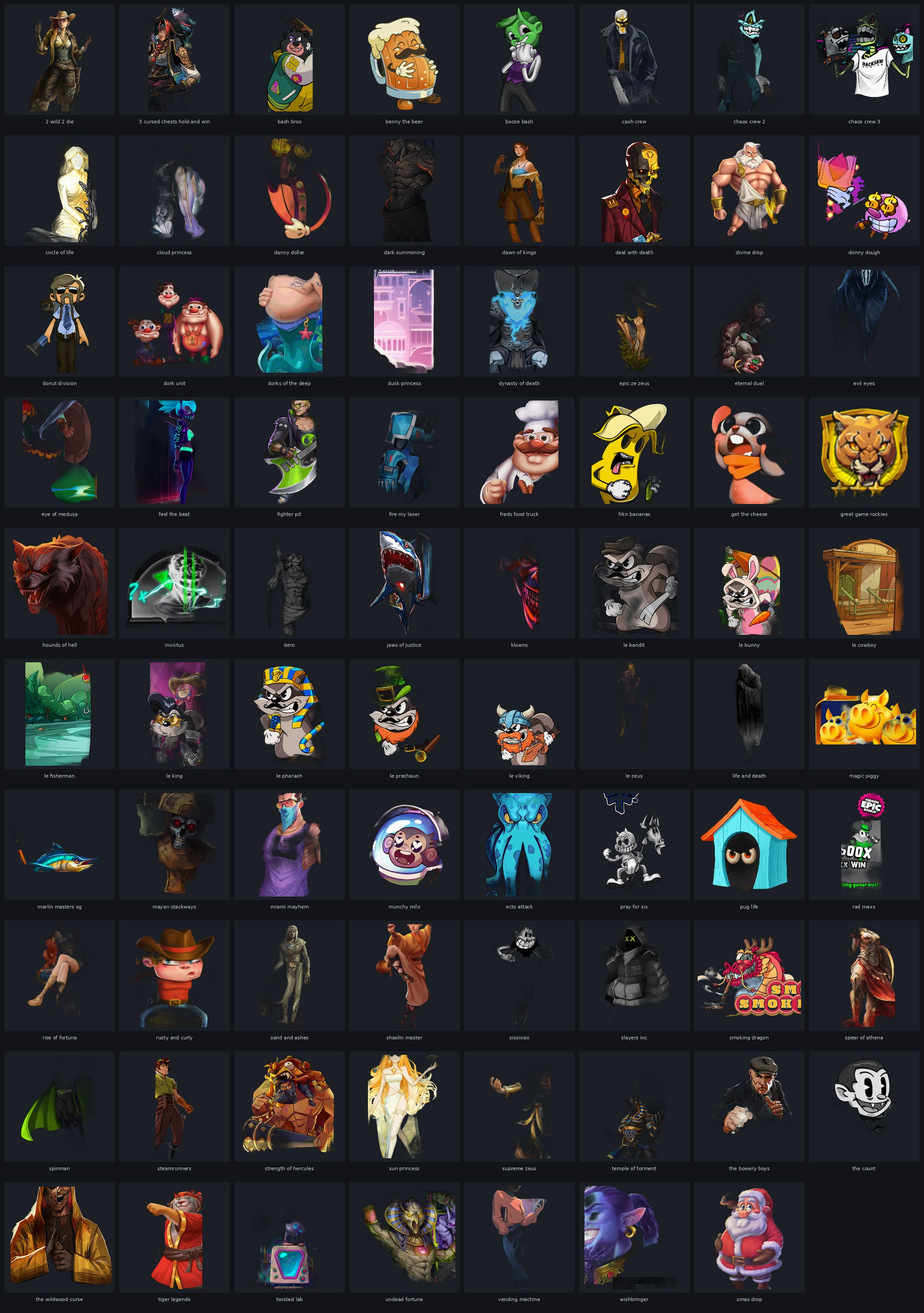
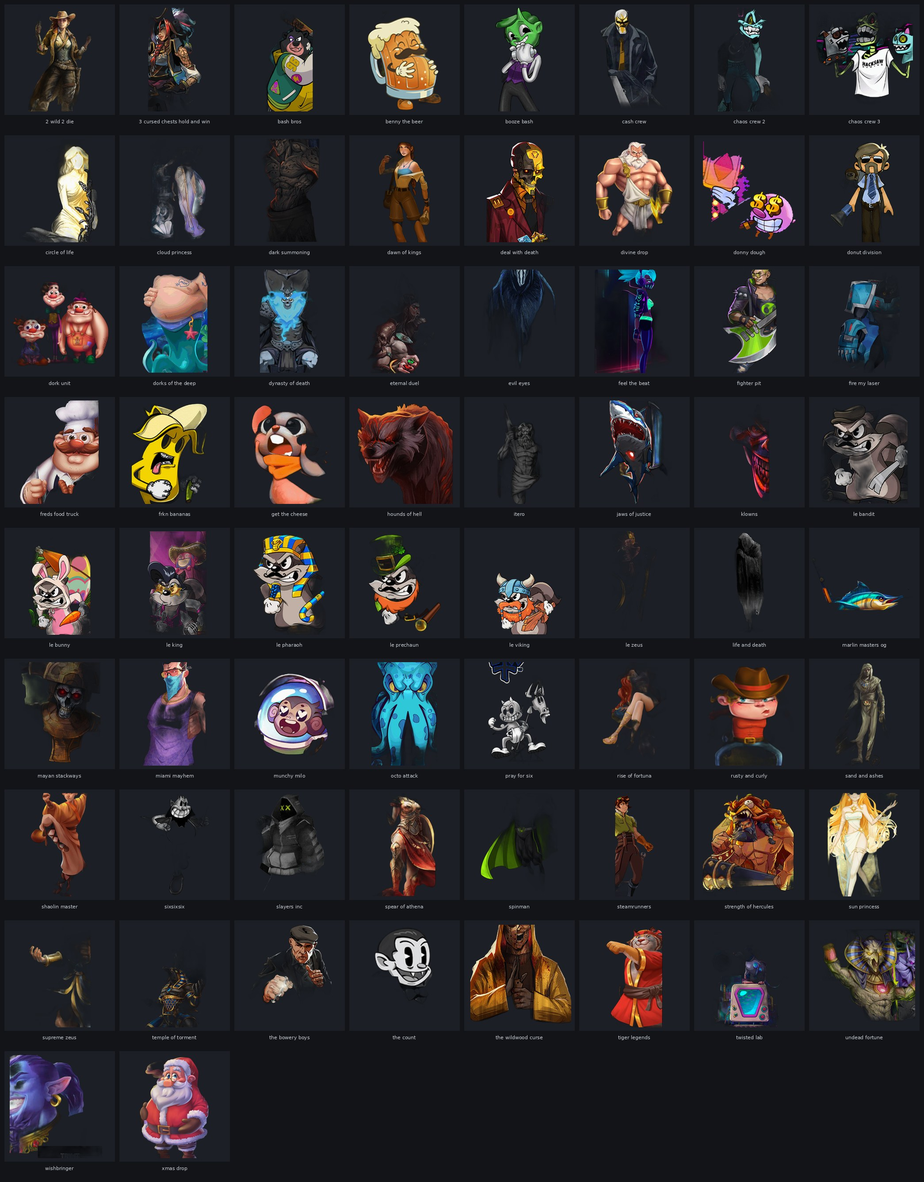
Second clean pass: strip remaining non-mascots

diff --git a/index.html b/index.html
@@ -48,28 +48,28 @@
   <p>Transparent PNG character cutouts assembled from in-game assets only — no lobby tiles, no Spine sheets.
   Contact sheets plus a scrollable thumbnail grid for every cutout.</p>
   <div class="counts">
-    <span>Total: 170</span>
-    <span>Hacksaw: 79</span>
+    <span>Total: 155</span>
+    <span>Hacksaw: 66</span>
     <span>Pragmatic: 87</span>
-    <span>Stake Engine: 4</span>
+    <span>Stake Engine: 2</span>
   </div>
   <nav>
-    <a href="#hacksaw">Hacksaw (79)</a>
+    <a href="#hacksaw">Hacksaw (66)</a>
     <a href="#pragmatic">Pragmatic (87)</a>
-    <a href="#stake">Stake Engine (4)</a>
+    <a href="#stake">Stake Engine (2)</a>
   </nav>
 </header>
 <main>
 
   <section id="hacksaw">
     <h2>Hacksaw</h2>
-    <p class="meta">79 cutouts · sheets: sheet-hacksaw.jpg (79)</p>
+    <p class="meta">66 cutouts · sheets: sheet-hacksaw.jpg (66)</p>
     <div class="sheets">
-      <a class="imgwrap" href="sheet-hacksaw.jpg" target="_blank" rel="noopener"><img src="sheet-hacksaw.jpg" alt="Hacksaw contact sheet (79 cells, 2090×2970)"/></a>
+      <a class="imgwrap" href="sheet-hacksaw.jpg" target="_blank" rel="noopener"><img src="sheet-hacksaw.jpg" alt="Hacksaw contact sheet (66 cells, 2090×2674)"/></a>
     </div>
     <h3 class="sub">Thumbnail grid</h3>
     <div class="grid">
-      <figure class="thumb"><img loading="lazy" src="thumbs/hacksaw__2-wild-2-die__char.jpg" alt="2 wild 2 die" width="auto" height="180"/><figcaption>2 wild 2 die</figcaption></figure><figure class="thumb"><img loading="lazy" src="thumbs/hacksaw__3-cursed-chests-hold-and-win__char.jpg" alt="3 cursed chests hold and win" width="auto" height="180"/><figcaption>3 cursed chests hold and win</figcaption></figure><figure class="thumb"><img loading="lazy" src="thumbs/hacksaw__bash-bros__char.jpg" alt="bash bros" width="auto" height="180"/><figcaption>bash bros</figcaption></figure><figure class="thumb"><img loading="lazy" src="thumbs/hacksaw__benny-the-beer__char.jpg" alt="benny the beer" width="auto" height="180"/><figcaption>benny the beer</figcaption></figure><figure class="thumb"><img loading="lazy" src="thumbs/hacksaw__booze-bash__char.jpg" alt="booze bash" width="auto" height="180"/><figcaption>booze bash</figcaption></figure><figure class="thumb"><img loading="lazy" src="thumbs/hacksaw__cash-crew__char.jpg" alt="cash crew" width="auto" height="180"/><figcaption>cash crew</figcaption></figure><figure class="thumb"><img loading="lazy" src="thumbs/hacksaw__chaos-crew-2__char.jpg" alt="chaos crew 2" width="auto" height="180"/><figcaption>chaos crew 2</figcaption></figure><figure class="thumb"><img loading="lazy" src="thumbs/hacksaw__chaos-crew-3__char.jpg" alt="chaos crew 3" width="auto" height="180"/><figcaption>chaos crew 3</figcaption></figure><figure class="thumb"><img loading="lazy" src="thumbs/hacksaw__circle-of-life__char.jpg" alt="circle of life" width="auto" height="180"/><figcaption>circle of life</figcaption></figure><figure class="thumb"><img loading="lazy" src="thumbs/hacksaw__cloud-princess__char.jpg" alt="cloud princess" width="auto" height="180"/><figcaption>cloud princess</figcaption></figure><figure class="thumb"><img loading="lazy" src="thumbs/hacksaw__danny-dollar__char.jpg" alt="danny dollar" width="auto" height="180"/><figcaption>danny dollar</figcaption></figure><figure class="thumb"><img loading="lazy" src="thumbs/hacksaw__dark-summoning__char.jpg" alt="dark summoning" width="auto" height="180"/><figcaption>dark summoning</figcaption></figure><figure class="thumb"><img loading="lazy" src="thumbs/hacksaw__dawn-of-kings__char.jpg" alt="dawn of kings" width="auto" height="180"/><figcaption>dawn of kings</figcaption></figure><figure class="thumb"><img loading="lazy" src="thumbs/hacksaw__deal-with-death__char.jpg" alt="deal with death" width="auto" height="180"/><figcaption>deal with death</figcaption></figure><figure class="thumb"><img loading="lazy" src="thumbs/hacksaw__divine-drop__char.jpg" alt="divine drop" width="auto" height="180"/><figcaption>divine drop</figcaption></figure><figure class="thumb"><img loading="lazy" src="thumbs/hacksaw__donny-dough__char.jpg" alt="donny dough" width="auto" height="180"/><figcaption>donny dough</figcaption></figure><figure class="thumb"><img loading="lazy" src="thumbs/hacksaw__donut-division__char.jpg" alt="donut division" width="auto" height="180"/><figcaption>donut division</figcaption></figure><figure class="thumb"><img loading="lazy" src="thumbs/hacksaw__dork-unit__char.jpg" alt="dork unit" width="auto" height="180"/><figcaption>dork unit</figcaption></figure><figure class="thumb"><img loading="lazy" src="thumbs/hacksaw__dorks-of-the-deep__char.jpg" alt="dorks of the deep" width="auto" height="180"/><figcaption>dorks of the deep</figcaption></figure><figure class="thumb"><img loading="lazy" src="thumbs/hacksaw__dusk-princess__char.jpg" alt="dusk princess" width="auto" height="180"/><figcaption>dusk princess</figcaption></figure><figure class="thumb"><img loading="lazy" src="thumbs/hacksaw__dynasty-of-death__char.jpg" alt="dynasty of death" width="auto" height="180"/><figcaption>dynasty of death</figcaption></figure><figure class="thumb"><img loading="lazy" src="thumbs/hacksaw__epic-ze-zeus__char.jpg" alt="epic ze zeus" width="auto" height="180"/><figcaption>epic ze zeus</figcaption></figure><figure class="thumb"><img loading="lazy" src="thumbs/hacksaw__eternal-duel__char.jpg" alt="eternal duel" width="auto" height="180"/><figcaption>eternal duel</figcaption></figure><figure class="thumb"><img loading="lazy" src="thumbs/hacksaw__evil-eyes__char.jpg" alt="evil eyes" width="auto" height="180"/><figcaption>evil eyes</figcaption></figure><figure class="thumb"><img loading="lazy" src="thumbs/hacksaw__eye-of-medusa__char.jpg" alt="eye of medusa" width="auto" height="180"/><figcaption>eye of medusa</figcaption></figure><figure class="thumb"><img loading="lazy" src="thumbs/hacksaw__feel-the-beat__char.jpg" alt="feel the beat" width="auto" height="180"/><figcaption>feel the beat</figcaption></figure><figure class="thumb"><img loading="lazy" src="thumbs/hacksaw__fighter-pit__char.jpg" alt="fighter pit" width="auto" height="180"/><figcaption>fighter pit</figcaption></figure><figure class="thumb"><img loading="lazy" src="thumbs/hacksaw__fire-my-laser__char.jpg" alt="fire my laser" width="auto" height="180"/><figcaption>fire my laser</figcaption></figure><figure class="thumb"><img loading="lazy" src="thumbs/hacksaw__freds-food-truck__char.jpg" alt="freds food truck" width="auto" height="180"/><figcaption>freds food truck</figcaption></figure><figure class="thumb"><img loading="lazy" src="thumbs/hacksaw__frkn-bananas__char.jpg" alt="frkn bananas" width="auto" height="180"/><figcaption>frkn bananas</figcaption></figure><figure class="thumb"><img loading="lazy" src="thumbs/hacksaw__get-the-cheese__char.jpg" alt="get the cheese" width="auto" height="180"/><figcaption>get the cheese</figcaption></figure><figure class="thumb"><img loading="lazy" src="thumbs/hacksaw__great-game-rockies__char.jpg" alt="great game rockies" width="auto" height="180"/><figcaption>great game rockies</figcaption></figure><figure class="thumb"><img loading="lazy" src="thumbs/hacksaw__hounds-of-hell__char.jpg" alt="hounds of hell" width="auto" height="180"/><figcaption>hounds of hell</figcaption></figure><figure class="thumb"><img loading="lazy" src="thumbs/hacksaw__invictus__char.jpg" alt="invictus" width="auto" height="180"/><figcaption>invictus</figcaption></figure><figure class="thumb"><img loading="lazy" src="thumbs/hacksaw__itero__char.jpg" alt="itero" width="auto" height="180"/><figcaption>itero</figcaption></figure><figure class="thumb"><img loading="lazy" src="thumbs/hacksaw__jaws-of-justice__char.jpg" alt="jaws of justice" width="auto" height="180"/><figcaption>jaws of justice</figcaption></figure><figure class="thumb"><img loading="lazy" src="thumbs/hacksaw__klowns__char.jpg" alt="klowns" width="auto" height="180"/><figcaption>klowns</figcaption></figure><figure class="thumb"><img loading="lazy" src="thumbs/hacksaw__le-bandit__char.jpg" alt="le bandit" width="auto" height="180"/><figcaption>le bandit</figcaption></figure><figure class="thumb"><img loading="lazy" src="thumbs/hacksaw__le-bunny__char.jpg" alt="le bunny" width="auto" height="180"/><figcaption>le bunny</figcaption></figure><figure class="thumb"><img loading="lazy" src="thumbs/hacksaw__le-cowboy__char.jpg" alt="le cowboy" width="auto" height="180"/><figcaption>le cowboy</figcaption></figure><figure class="thumb"><img loading="lazy" src="thumbs/hacksaw__le-fisherman__char.jpg" alt="le fisherman" width="auto" height="180"/><figcaption>le fisherman</figcaption></figure><figure class="thumb"><img loading="lazy" src="thumbs/hacksaw__le-king__char.jpg" alt="le king" width="auto" height="180"/><figcaption>le king</figcaption></figure><figure class="thumb"><img loading="lazy" src="thumbs/hacksaw__le-pharaoh__char.jpg" alt="le pharaoh" width="auto" height="180"/><figcaption>le pharaoh</figcaption></figure><figure class="thumb"><img loading="lazy" src="thumbs/hacksaw__le-prechaun__char.jpg" alt="le prechaun" width="auto" height="180"/><figcaption>le prechaun</figcaption></figure><figure class="thumb"><img loading="lazy" src="thumbs/hacksaw__le-viking__char.jpg" alt="le viking" width="auto" height="180"/><figcaption>le viking</figcaption></figure><figure class="thumb"><img loading="lazy" src="thumbs/hacksaw__le-zeus__char.jpg" alt="le zeus" width="auto" height="180"/><figcaption>le zeus</figcaption></figure><figure class="thumb"><img loading="lazy" src="thumbs/hacksaw__life-and-death__char.jpg" alt="life and death" width="auto" height="180"/><figcaption>life and death</figcaption></figure><figure class="thumb"><img loading="lazy" src="thumbs/hacksaw__magic-piggy__char.jpg" alt="magic piggy" width="auto" height="180"/><figcaption>magic piggy</figcaption></figure><figure class="thumb"><img loading="lazy" src="thumbs/hacksaw__marlin-masters-og__char.jpg" alt="marlin masters og" width="auto" height="180"/><figcaption>marlin masters og</figcaption></figure><figure class="thumb"><img loading="lazy" src="thumbs/hacksaw__mayan-stackways__char.jpg" alt="mayan stackways" width="auto" height="180"/><figcaption>mayan stackways</figcaption></figure><figure class="thumb"><img loading="lazy" src="thumbs/hacksaw__miami-mayhem__char.jpg" alt="miami mayhem" width="auto" height="180"/><figcaption>miami mayhem</figcaption></figure><figure class="thumb"><img loading="lazy" src="thumbs/hacksaw__munchy-milo__char.jpg" alt="munchy milo" width="auto" height="180"/><figcaption>munchy milo</figcaption></figure><figure class="thumb"><img loading="lazy" src="thumbs/hacksaw__octo-attack__char.jpg" alt="octo attack" width="auto" height="180"/><figcaption>octo attack</figcaption></figure><figure class="thumb"><img loading="lazy" src="thumbs/hacksaw__pray-for-six__char.jpg" alt="pray for six" width="auto" height="180"/><figcaption>pray for six</figcaption></figure><figure class="thumb"><img loading="lazy" src="thumbs/hacksaw__pug-life__char.jpg" alt="pug life" width="auto" height="180"/><figcaption>pug life</figcaption></figure><figure class="thumb"><img loading="lazy" src="thumbs/hacksaw__rad-maxx__char.jpg" alt="rad maxx" width="auto" height="180"/><figcaption>rad maxx</figcaption></figure><figure class="thumb"><img loading="lazy" src="thumbs/hacksaw__rise-of-fortuna__char.jpg" alt="rise of fortuna" width="auto" height="180"/><figcaption>rise of fortuna</figcaption></figure><figure class="thumb"><img loading="lazy" src="thumbs/hacksaw__rusty-and-curly__char.jpg" alt="rusty and curly" width="auto" height="180"/><figcaption>rusty and curly</figcaption></figure><figure class="thumb"><img loading="lazy" src="thumbs/hacksaw__sand-and-ashes__char.jpg" alt="sand and ashes" width="auto" height="180"/><figcaption>sand and ashes</figcaption></figure><figure class="thumb"><img loading="lazy" src="thumbs/hacksaw__shaolin-master__char.jpg" alt="shaolin master" width="auto" height="180"/><figcaption>shaolin master</figcaption></figure><figure class="thumb"><img loading="lazy" src="thumbs/hacksaw__sixsixsix__char.jpg" alt="sixsixsix" width="auto" height="180"/><figcaption>sixsixsix</figcaption></figure><figure class="thumb"><img loading="lazy" src="thumbs/hacksaw__slayers-inc__char.jpg" alt="slayers inc" width="auto" height="180"/><figcaption>slayers inc</figcaption></figure><figure class="thumb"><img loading="lazy" src="thumbs/hacksaw__smoking-dragon__char.jpg" alt="smoking dragon" width="auto" height="180"/><figcaption>smoking dragon</figcaption></figure><figure class="thumb"><img loading="lazy" src="thumbs/hacksaw__spear-of-athena__char.jpg" alt="spear of athena" width="auto" height="180"/><figcaption>spear of athena</figcaption></figure><figure class="thumb"><img loading="lazy" src="thumbs/hacksaw__spinman__char.jpg" alt="spinman" width="auto" height="180"/><figcaption>spinman</figcaption></figure><figure class="thumb"><img loading="lazy" src="thumbs/hacksaw__steamrunners__char.jpg" alt="steamrunners" width="auto" height="180"/><figcaption>steamrunners</figcaption></figure><figure class="thumb"><img loading="lazy" src="thumbs/hacksaw__strength-of-hercules__char.jpg" alt="strength of hercules" width="auto" height="180"/><figcaption>strength of hercules</figcaption></figure><figure class="thumb"><img loading="lazy" src="thumbs/hacksaw__sun-princess__char.jpg" alt="sun princess" width="auto" height="180"/><figcaption>sun princess</figcaption></figure><figure class="thumb"><img loading="lazy" src="thumbs/hacksaw__supreme-zeus__char.jpg" alt="supreme zeus" width="auto" height="180"/><figcaption>supreme zeus</figcaption></figure><figure class="thumb"><img loading="lazy" src="thumbs/hacksaw__temple-of-torment__char.jpg" alt="temple of torment" width="auto" height="180"/><figcaption>temple of torment</figcaption></figure><figure class="thumb"><img loading="lazy" src="thumbs/hacksaw__the-bowery-boys__char.jpg" alt="the bowery boys" width="auto" height="180"/><figcaption>the bowery boys</figcaption></figure><figure class="thumb"><img loading="lazy" src="thumbs/hacksaw__the-count__char.jpg" alt="the count" width="auto" height="180"/><figcaption>the count</figcaption></figure><figure class="thumb"><img loading="lazy" src="thumbs/hacksaw__the-wildwood-curse__char.jpg" alt="the wildwood curse" width="auto" height="180"/><figcaption>the wildwood curse</figcaption></figure><figure class="thumb"><img loading="lazy" src="thumbs/hacksaw__tiger-legends__char.jpg" alt="tiger legends" width="auto" height="180"/><figcaption>tiger legends</figcaption></figure><figure class="thumb"><img loading="lazy" src="thumbs/hacksaw__twisted-lab__char.jpg" alt="twisted lab" width="auto" height="180"/><figcaption>twisted lab</figcaption></figure><figure class="thumb"><img loading="lazy" src="thumbs/hacksaw__undead-fortune__char.jpg" alt="undead fortune" width="auto" height="180"/><figcaption>undead fortune</figcaption></figure><figure class="thumb"><img loading="lazy" src="thumbs/hacksaw__vending-machine__char.jpg" alt="vending machine" width="auto" height="180"/><figcaption>vending machine</figcaption></figure><figure class="thumb"><img loading="lazy" src="thumbs/hacksaw__wishbringer__char.jpg" alt="wishbringer" width="auto" height="180"/><figcaption>wishbringer</figcaption></figure><figure class="thumb"><img loading="lazy" src="thumbs/hacksaw__xmas-drop__char.jpg" alt="xmas drop" width="auto" height="180"/><figcaption>xmas drop</figcaption></figure>
+      <figure class="thumb"><img loading="lazy" src="thumbs/hacksaw__2-wild-2-die__char.jpg" alt="2 wild 2 die" width="auto" height="180"/><figcaption>2 wild 2 die</figcaption></figure><figure class="thumb"><img loading="lazy" src="thumbs/hacksaw__3-cursed-chests-hold-and-win__char.jpg" alt="3 cursed chests hold and win" width="auto" height="180"/><figcaption>3 cursed chests hold and win</figcaption></figure><figure class="thumb"><img loading="lazy" src="thumbs/hacksaw__bash-bros__char.jpg" alt="bash bros" width="auto" height="180"/><figcaption>bash bros</figcaption></figure><figure class="thumb"><img loading="lazy" src="thumbs/hacksaw__benny-the-beer__char.jpg" alt="benny the beer" width="auto" height="180"/><figcaption>benny the beer</figcaption></figure><figure class="thumb"><img loading="lazy" src="thumbs/hacksaw__booze-bash__char.jpg" alt="booze bash" width="auto" height="180"/><figcaption>booze bash</figcaption></figure><figure class="thumb"><img loading="lazy" src="thumbs/hacksaw__cash-crew__char.jpg" alt="cash crew" width="auto" height="180"/><figcaption>cash crew</figcaption></figure><figure class="thumb"><img loading="lazy" src="thumbs/hacksaw__chaos-crew-2__char.jpg" alt="chaos crew 2" width="auto" height="180"/><figcaption>chaos crew 2</figcaption></figure><figure class="thumb"><img loading="lazy" src="thumbs/hacksaw__chaos-crew-3__char.jpg" alt="chaos crew 3" width="auto" height="180"/><figcaption>chaos crew 3</figcaption></figure><figure class="thumb"><img loading="lazy" src="thumbs/hacksaw__circle-of-life__char.jpg" alt="circle of life" width="auto" height="180"/><figcaption>circle of life</figcaption></figure><figure class="thumb"><img loading="lazy" src="thumbs/hacksaw__cloud-princess__char.jpg" alt="cloud princess" width="auto" height="180"/><figcaption>cloud princess</figcaption></figure><figure class="thumb"><img loading="lazy" src="thumbs/hacksaw__dark-summoning__char.jpg" alt="dark summoning" width="auto" height="180"/><figcaption>dark summoning</figcaption></figure><figure class="thumb"><img loading="lazy" src="thumbs/hacksaw__dawn-of-kings__char.jpg" alt="dawn of kings" width="auto" height="180"/><figcaption>dawn of kings</figcaption></figure><figure class="thumb"><img loading="lazy" src="thumbs/hacksaw__deal-with-death__char.jpg" alt="deal with death" width="auto" height="180"/><figcaption>deal with death</figcaption></figure><figure class="thumb"><img loading="lazy" src="thumbs/hacksaw__divine-drop__char.jpg" alt="divine drop" width="auto" height="180"/><figcaption>divine drop</figcaption></figure><figure class="thumb"><img loading="lazy" src="thumbs/hacksaw__donny-dough__char.jpg" alt="donny dough" width="auto" height="180"/><figcaption>donny dough</figcaption></figure><figure class="thumb"><img loading="lazy" src="thumbs/hacksaw__donut-division__char.jpg" alt="donut division" width="auto" height="180"/><figcaption>donut division</figcaption></figure><figure class="thumb"><img loading="lazy" src="thumbs/hacksaw__dork-unit__char.jpg" alt="dork unit" width="auto" height="180"/><figcaption>dork unit</figcaption></figure><figure class="thumb"><img loading="lazy" src="thumbs/hacksaw__dorks-of-the-deep__char.jpg" alt="dorks of the deep" width="auto" height="180"/><figcaption>dorks of the deep</figcaption></figure><figure class="thumb"><img loading="lazy" src="thumbs/hacksaw__dynasty-of-death__char.jpg" alt="dynasty of death" width="auto" height="180"/><figcaption>dynasty of death</figcaption></figure><figure class="thumb"><img loading="lazy" src="thumbs/hacksaw__eternal-duel__char.jpg" alt="eternal duel" width="auto" height="180"/><figcaption>eternal duel</figcaption></figure><figure class="thumb"><img loading="lazy" src="thumbs/hacksaw__evil-eyes__char.jpg" alt="evil eyes" width="auto" height="180"/><figcaption>evil eyes</figcaption></figure><figure class="thumb"><img loading="lazy" src="thumbs/hacksaw__feel-the-beat__char.jpg" alt="feel the beat" width="auto" height="180"/><figcaption>feel the beat</figcaption></figure><figure class="thumb"><img loading="lazy" src="thumbs/hacksaw__fighter-pit__char.jpg" alt="fighter pit" width="auto" height="180"/><figcaption>fighter pit</figcaption></figure><figure class="thumb"><img loading="lazy" src="thumbs/hacksaw__fire-my-laser__char.jpg" alt="fire my laser" width="auto" height="180"/><figcaption>fire my laser</figcaption></figure><figure class="thumb"><img loading="lazy" src="thumbs/hacksaw__freds-food-truck__char.jpg" alt="freds food truck" width="auto" height="180"/><figcaption>freds food truck</figcaption></figure><figure class="thumb"><img loading="lazy" src="thumbs/hacksaw__frkn-bananas__char.jpg" alt="frkn bananas" width="auto" height="180"/><figcaption>frkn bananas</figcaption></figure><figure class="thumb"><img loading="lazy" src="thumbs/hacksaw__get-the-cheese__char.jpg" alt="get the cheese" width="auto" height="180"/><figcaption>get the cheese</figcaption></figure><figure class="thumb"><img loading="lazy" src="thumbs/hacksaw__hounds-of-hell__char.jpg" alt="hounds of hell" width="auto" height="180"/><figcaption>hounds of hell</figcaption></figure><figure class="thumb"><img loading="lazy" src="thumbs/hacksaw__itero__char.jpg" alt="itero" width="auto" height="180"/><figcaption>itero</figcaption></figure><figure class="thumb"><img loading="lazy" src="thumbs/hacksaw__jaws-of-justice__char.jpg" alt="jaws of justice" width="auto" height="180"/><figcaption>jaws of justice</figcaption></figure><figure class="thumb"><img loading="lazy" src="thumbs/hacksaw__klowns__char.jpg" alt="klowns" width="auto" height="180"/><figcaption>klowns</figcaption></figure><figure class="thumb"><img loading="lazy" src="thumbs/hacksaw__le-bandit__char.jpg" alt="le bandit" width="auto" height="180"/><figcaption>le bandit</figcaption></figure><figure class="thumb"><img loading="lazy" src="thumbs/hacksaw__le-bunny__char.jpg" alt="le bunny" width="auto" height="180"/><figcaption>le bunny</figcaption></figure><figure class="thumb"><img loading="lazy" src="thumbs/hacksaw__le-king__char.jpg" alt="le king" width="auto" height="180"/><figcaption>le king</figcaption></figure><figure class="thumb"><img loading="lazy" src="thumbs/hacksaw__le-pharaoh__char.jpg" alt="le pharaoh" width="auto" height="180"/><figcaption>le pharaoh</figcaption></figure><figure class="thumb"><img loading="lazy" src="thumbs/hacksaw__le-prechaun__char.jpg" alt="le prechaun" width="auto" height="180"/><figcaption>le prechaun</figcaption></figure><figure class="thumb"><img loading="lazy" src="thumbs/hacksaw__le-viking__char.jpg" alt="le viking" width="auto" height="180"/><figcaption>le viking</figcaption></figure><figure class="thumb"><img loading="lazy" src="thumbs/hacksaw__le-zeus__char.jpg" alt="le zeus" width="auto" height="180"/><figcaption>le zeus</figcaption></figure><figure class="thumb"><img loading="lazy" src="thumbs/hacksaw__life-and-death__char.jpg" alt="life and death" width="auto" height="180"/><figcaption>life and death</figcaption></figure><figure class="thumb"><img loading="lazy" src="thumbs/hacksaw__marlin-masters-og__char.jpg" alt="marlin masters og" width="auto" height="180"/><figcaption>marlin masters og</figcaption></figure><figure class="thumb"><img loading="lazy" src="thumbs/hacksaw__mayan-stackways__char.jpg" alt="mayan stackways" width="auto" height="180"/><figcaption>mayan stackways</figcaption></figure><figure class="thumb"><img loading="lazy" src="thumbs/hacksaw__miami-mayhem__char.jpg" alt="miami mayhem" width="auto" height="180"/><figcaption>miami mayhem</figcaption></figure><figure class="thumb"><img loading="lazy" src="thumbs/hacksaw__munchy-milo__char.jpg" alt="munchy milo" width="auto" height="180"/><figcaption>munchy milo</figcaption></figure><figure class="thumb"><img loading="lazy" src="thumbs/hacksaw__octo-attack__char.jpg" alt="octo attack" width="auto" height="180"/><figcaption>octo attack</figcaption></figure><figure class="thumb"><img loading="lazy" src="thumbs/hacksaw__pray-for-six__char.jpg" alt="pray for six" width="auto" height="180"/><figcaption>pray for six</figcaption></figure><figure class="thumb"><img loading="lazy" src="thumbs/hacksaw__rise-of-fortuna__char.jpg" alt="rise of fortuna" width="auto" height="180"/><figcaption>rise of fortuna</figcaption></figure><figure class="thumb"><img loading="lazy" src="thumbs/hacksaw__rusty-and-curly__char.jpg" alt="rusty and curly" width="auto" height="180"/><figcaption>rusty and curly</figcaption></figure><figure class="thumb"><img loading="lazy" src="thumbs/hacksaw__sand-and-ashes__char.jpg" alt="sand and ashes" width="auto" height="180"/><figcaption>sand and ashes</figcaption></figure><figure class="thumb"><img loading="lazy" src="thumbs/hacksaw__shaolin-master__char.jpg" alt="shaolin master" width="auto" height="180"/><figcaption>shaolin master</figcaption></figure><figure class="thumb"><img loading="lazy" src="thumbs/hacksaw__sixsixsix__char.jpg" alt="sixsixsix" width="auto" height="180"/><figcaption>sixsixsix</figcaption></figure><figure class="thumb"><img loading="lazy" src="thumbs/hacksaw__slayers-inc__char.jpg" alt="slayers inc" width="auto" height="180"/><figcaption>slayers inc</figcaption></figure><figure class="thumb"><img loading="lazy" src="thumbs/hacksaw__spear-of-athena__char.jpg" alt="spear of athena" width="auto" height="180"/><figcaption>spear of athena</figcaption></figure><figure class="thumb"><img loading="lazy" src="thumbs/hacksaw__spinman__char.jpg" alt="spinman" width="auto" height="180"/><figcaption>spinman</figcaption></figure><figure class="thumb"><img loading="lazy" src="thumbs/hacksaw__steamrunners__char.jpg" alt="steamrunners" width="auto" height="180"/><figcaption>steamrunners</figcaption></figure><figure class="thumb"><img loading="lazy" src="thumbs/hacksaw__strength-of-hercules__char.jpg" alt="strength of hercules" width="auto" height="180"/><figcaption>strength of hercules</figcaption></figure><figure class="thumb"><img loading="lazy" src="thumbs/hacksaw__sun-princess__char.jpg" alt="sun princess" width="auto" height="180"/><figcaption>sun princess</figcaption></figure><figure class="thumb"><img loading="lazy" src="thumbs/hacksaw__supreme-zeus__char.jpg" alt="supreme zeus" width="auto" height="180"/><figcaption>supreme zeus</figcaption></figure><figure class="thumb"><img loading="lazy" src="thumbs/hacksaw__temple-of-torment__char.jpg" alt="temple of torment" width="auto" height="180"/><figcaption>temple of torment</figcaption></figure><figure class="thumb"><img loading="lazy" src="thumbs/hacksaw__the-bowery-boys__char.jpg" alt="the bowery boys" width="auto" height="180"/><figcaption>the bowery boys</figcaption></figure><figure class="thumb"><img loading="lazy" src="thumbs/hacksaw__the-count__char.jpg" alt="the count" width="auto" height="180"/><figcaption>the count</figcaption></figure><figure class="thumb"><img loading="lazy" src="thumbs/hacksaw__the-wildwood-curse__char.jpg" alt="the wildwood curse" width="auto" height="180"/><figcaption>the wildwood curse</figcaption></figure><figure class="thumb"><img loading="lazy" src="thumbs/hacksaw__tiger-legends__char.jpg" alt="tiger legends" width="auto" height="180"/><figcaption>tiger legends</figcaption></figure><figure class="thumb"><img loading="lazy" src="thumbs/hacksaw__twisted-lab__char.jpg" alt="twisted lab" width="auto" height="180"/><figcaption>twisted lab</figcaption></figure><figure class="thumb"><img loading="lazy" src="thumbs/hacksaw__undead-fortune__char.jpg" alt="undead fortune" width="auto" height="180"/><figcaption>undead fortune</figcaption></figure><figure class="thumb"><img loading="lazy" src="thumbs/hacksaw__wishbringer__char.jpg" alt="wishbringer" width="auto" height="180"/><figcaption>wishbringer</figcaption></figure><figure class="thumb"><img loading="lazy" src="thumbs/hacksaw__xmas-drop__char.jpg" alt="xmas drop" width="auto" height="180"/><figcaption>xmas drop</figcaption></figure>
     </div>
   </section>
   <section id="pragmatic">
@@ -85,13 +85,13 @@
   </section>
   <section id="stake">
     <h2>Stake Engine</h2>
-    <p class="meta">4 cutouts · sheets: sheet-stake.jpg (4)</p>
+    <p class="meta">2 cutouts · sheets: sheet-stake.jpg (2)</p>
     <div class="sheets">
-      <a class="imgwrap" href="sheet-stake.jpg" target="_blank" rel="noopener"><img src="sheet-stake.jpg" alt="Stake Engine contact sheet (4 cells, 2090×306)"/></a>
+      <a class="imgwrap" href="sheet-stake.jpg" target="_blank" rel="noopener"><img src="sheet-stake.jpg" alt="Stake Engine contact sheet (2 cells, 2090×306)"/></a>
     </div>
     <h3 class="sub">Thumbnail grid</h3>
     <div class="grid">
-      <figure class="thumb"><img loading="lazy" src="thumbs/stake__degen-lab__cyber-ronin__char.jpg" alt="degen lab__cyber ronin" width="auto" height="180"/><figcaption>degen lab__cyber ronin</figcaption></figure><figure class="thumb"><img loading="lazy" src="thumbs/stake__nocap-labs__grimm__char.jpg" alt="nocap labs__grimm" width="auto" height="180"/><figcaption>nocap labs__grimm</figcaption></figure><figure class="thumb"><img loading="lazy" src="thumbs/stake__paperclip-gaming__potions__char.jpg" alt="paperclip gaming__potions" width="auto" height="180"/><figcaption>paperclip gaming__potions</figcaption></figure><figure class="thumb"><img loading="lazy" src="thumbs/stake__valkyrie__tome-of-hades__cerb__char.jpg" alt="valkyrie__tome of hades__ce…" width="auto" height="180"/><figcaption>valkyrie__tome of hades__ce…</figcaption></figure>
+      <figure class="thumb"><img loading="lazy" src="thumbs/stake__paperclip-gaming__potions__char.jpg" alt="paperclip gaming__potions" width="auto" height="180"/><figcaption>paperclip gaming__potions</figcaption></figure><figure class="thumb"><img loading="lazy" src="thumbs/stake__valkyrie__tome-of-hades__cerb__char.jpg" alt="valkyrie__tome of hades__ce…" width="auto" height="180"/><figcaption>valkyrie__tome of hades__ce…</figcaption></figure>
     </div>
   </section>
 </main>

diff --git a/README.md b/README.md
@@ -1,7 +1,7 @@
 # Slot character cutouts
 
-Assembled in-game character cutouts for style reference (Hacksaw / Pragmatic / Stake Engine).
+Assembled in-game character cutouts (Hacksaw / Pragmatic / Stake Engine).
 
-No lobby tiles. No Spine atlas sheets. Non-mascot junk quarantined.
+Junk (UI, props, full frames) quarantined. Stake is thin until real cutouts land.
 
-Gallery: https://stepupgaming.github.io/slot-mascot-refs/
+https://stepupgaming.github.io/slot-mascot-refs/
